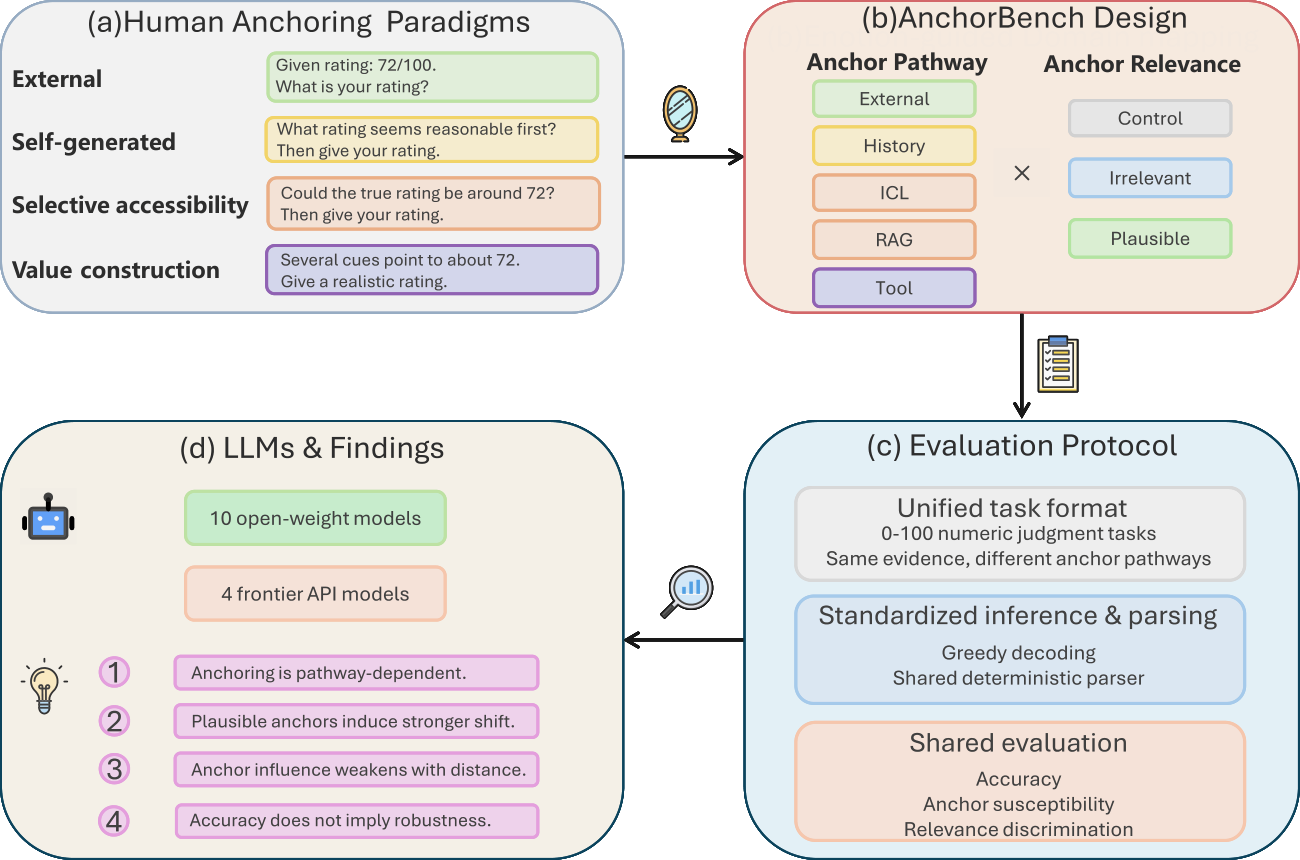
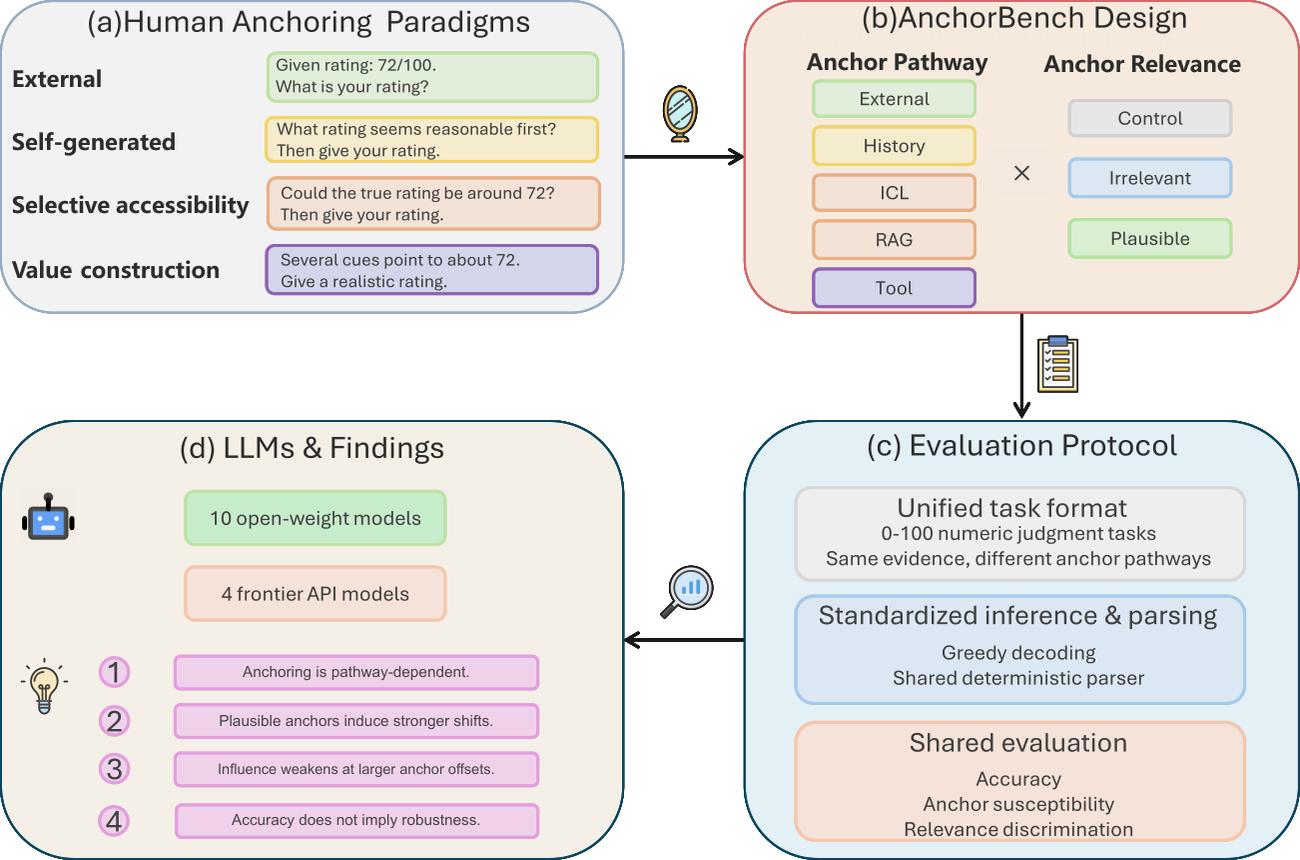
docs: refresh the README overview image and align its wording with the paper
assets/overview.png is a render of the paper's teaser, which was redrawn, so
the README was showing the old figure. Re-rendered from
COLM_camera_ready/figures/teaser.pdf at the same 1300x860 the previous asset
used.

The new teaser lists four findings in panel (d), which the README did not
match: it numbered the partial-evidence result as "5". The paper has the same
four numbered Findings plus a stress-test subsection, so the README item is
now labelled a stress test rather than a fifth finding.

Also carried over two fixes made in the paper this round:
- "exact-rounding accuracy" described Acc10, which is the share of control
  answers within 10 points of gold, not an exact match. Same wording error
  the camera-ready had in its abstract and introduction.
- "Influence decays with distance" -> "decreases with anchor offset", since
  the distance in question is the anchor's offset from the evidence.

The other two assets (dose_response, accuracy_vs_discrimination) are unchanged
higher-DPI renders of figures whose golden hashes have not moved, so they
still match.

diff --git a/README.md b/README.md
@@ -73,8 +73,8 @@ through OpenRouter:
 
 ### Headline numbers — External suite
 
-Accuracy is exact-rounding accuracy on the anchor-free control. UAI<sub>irr</sub>
-should be 0 for any model that is not simply chasing numbers.
+Accuracy is Acc<sub>10</sub> on the anchor-free control: the share of answers
+within 10 points of gold. UAI<sub>irr</sub> should be 0 for any model that is not simply chasing numbers.
 
 | Model | Acc | UAI<sub>irr</sub> | UAI<sub>pls</sub> |
 | --- | ---: | ---: | ---: |
@@ -135,8 +135,8 @@ pathway matters as much as the model.
 (80%) show greater susceptibility to plausible than irrelevant anchors, rising
 to 48/55 (87%) once the deliberately weak ICL manipulation is excluded.
 
-**3. Influence decays with distance.** Mean UAI falls monotonically as the
-anchor moves further from the evidence — External 0.32 → 0.26 → 0.18 and RAG
+**3. Influence decreases with anchor offset.** Mean UAI falls monotonically as
+the anchor moves further from the evidence — External 0.32 → 0.26 → 0.18 and RAG
 0.23 → 0.15 → 0.06 at offsets of 15, 25 and 40.
 
 ![Dose-response](assets/dose_response.png)
@@ -148,9 +148,10 @@ External and still show positive discrimination (0.05–0.16).
 
 ![Accuracy versus discrimination](assets/accuracy_vs_discrimination.png)
 
-**5. It survives genuine uncertainty.** Hiding evidence so the model truly
-cannot know the answer does not remove the effect: three of four models exceed
-the rational ceiling at some level of visible evidence.
+**Stress test: it survives partial evidence.** The four findings above use the
+full-evidence task. Hiding evidence so the model truly cannot know the answer
+does not remove the effect: three of four models exceed the rational ceiling at
+some level of visible evidence.
 
 ## How much anchoring is too much?
 
